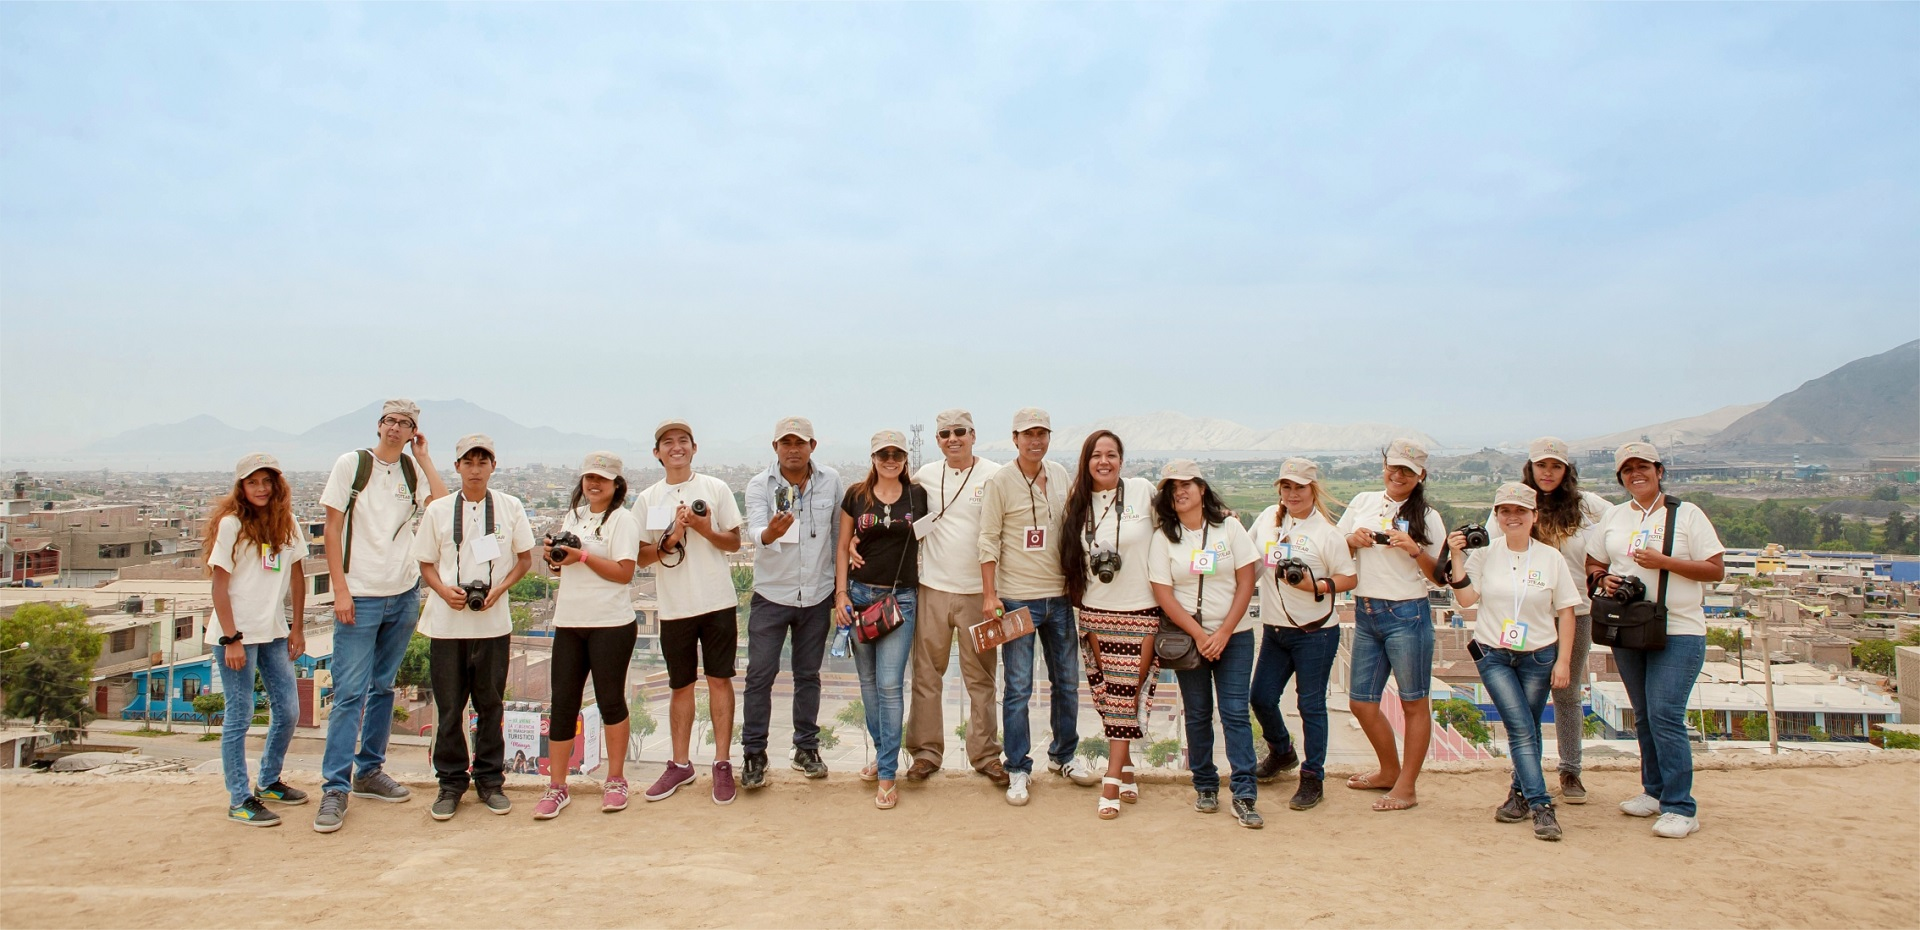
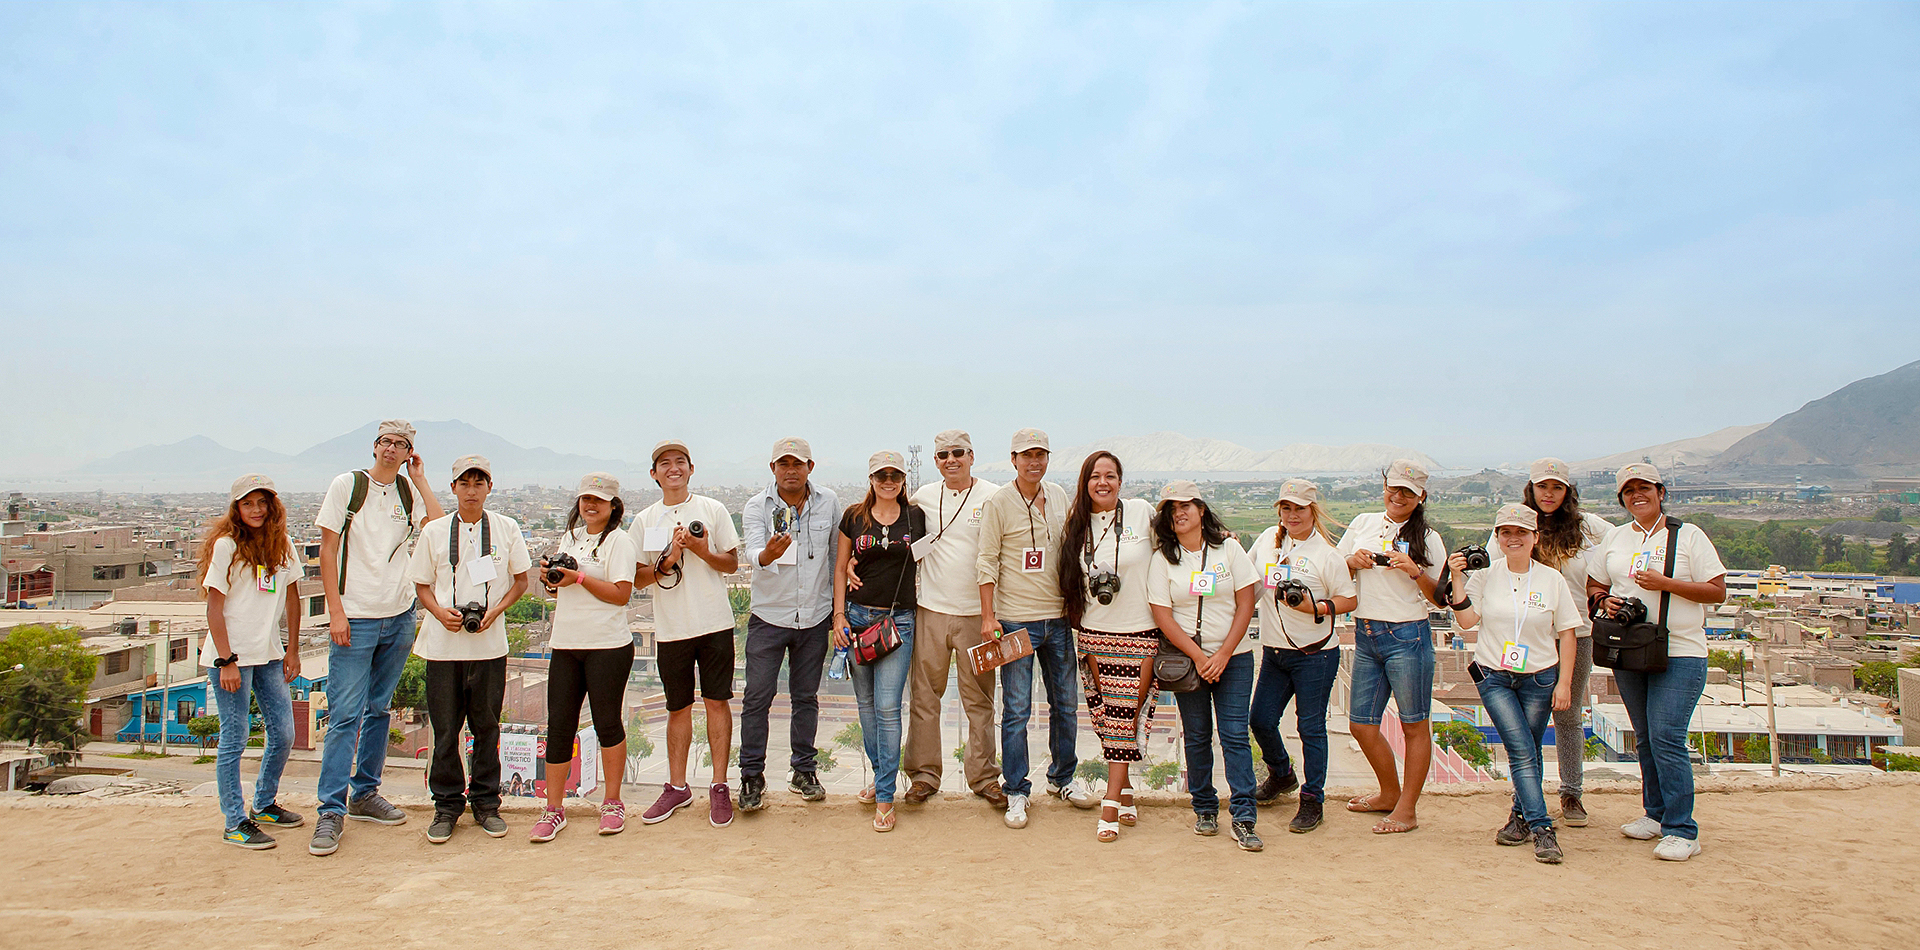
portadas reemplazadas 1920x1050

diff --git a/styles.css b/styles.css
@@ -59,7 +59,7 @@ header {
     display: flex;
     justify-content: center;
     background: url(img/Chimboteros\ Portada.jpg) no-repeat center;
-    background-size: contain;
+    background-size: cover;
 }
 
 header div {
